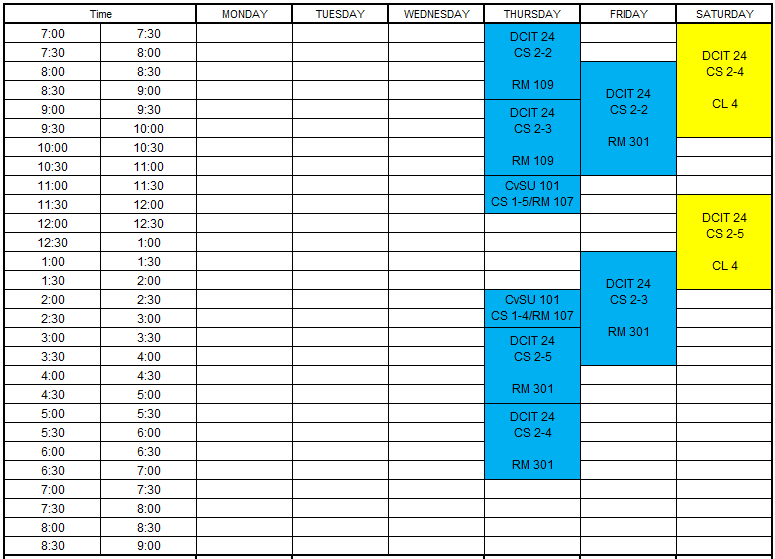
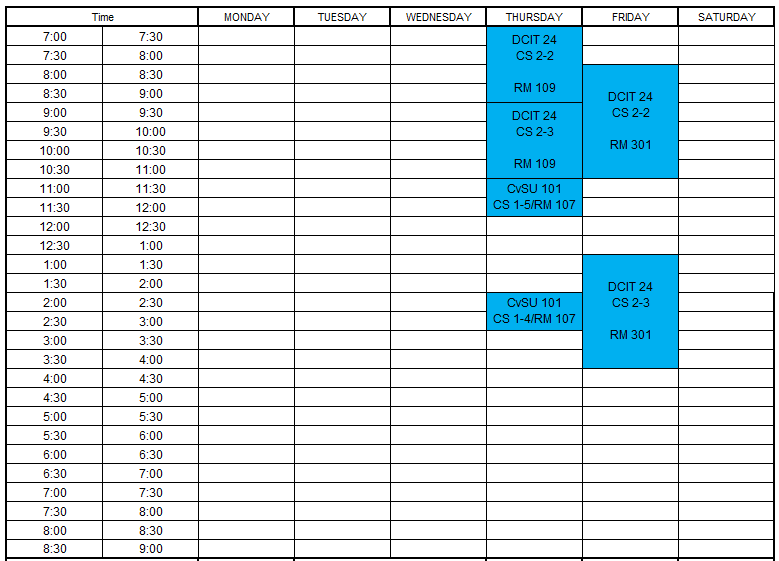
update: added data -  ma'am lamanilao

Changed region(s): [[0.0, 0.0, 1.0, 1.0], [0.7742, 0.1521, 0.8361, 0.2129], [0.7742, 0.2433, 0.8361, 0.2737]]

diff --git a/src/data.js b/src/data.js
@@ -9253,8 +9253,8 @@ export const people = [
     certificates: null,
     speaking_engagements: null,
     schedule: [
-      //No Record - 1st SEM  22-23
-      //No Record - 2nd SEM  22-23
+      //No Record - 1st Sem A.Y 22-23
+      //No Record - 2nd Sem A.Y 22-23
       { //1st 23-24
         semesterName: "1st Sem A.Y 23-24",
         details: {
@@ -13992,8 +13992,8 @@ export const people = [
     ],
     speaking_engagements: null,
     schedule: [
-      //No Record - 1ST SEM 22-23
-      //No Record - 2ND SEM 22-23
+      //No Record - 1st Sem A.Y 22-23
+      //No Record - 2nd Sem A.Y 22-23
       { //1st Sem A.Y 23-24
         semesterName: "1st Sem A.Y 23-24",
         details: {
@@ -14405,8 +14405,8 @@ export const people = [
     speaking_engagements: null,
 
     schedule: [
-      // No Record - Sem A.Y 22-23
-      // No Record - Sem A.Y 22-23
+      //No Record - 1st Sem A.Y 22-23
+      //No Record - 2nd Sem A.Y 22-23
       // Summer 1ST SEM 23-24
       { //2nd Sem A.Y 23-24
         semesterName: "2nd Sem A.Y 23-24",
@@ -15838,10 +15838,10 @@ export const people = [
     speaking_engagements: null,
 
     schedule: [
-      //No Record - 1ST SEM 22-23
-      //No Record - 2ND SEM 22-23
-      //No Record - 1ST SEM 23-24
-      //No Record - 2ND SEM 23-24
+      //No Record - 1st Sem A.Y 22-23
+      //No Record - 2nd Sem A.Y 22-23
+      //No Record - 1st Sem A.Y 23-24
+      //No Record - 2nd Sem A.Y 23-24
       { //1st Sem A.Y 24-25
         semesterName: "1st Sem A.Y 24-25",
         details: {
@@ -16037,8 +16037,8 @@ export const people = [
     speaking_engagements: null,
 
     schedule: [
-      //No Record - 1ST SEM 22-23
-      //No Record - 2ND SEM 22-23
+      //No Record - 1st Sem A.Y 22-23
+      //No Record - 2nd Sem A.Y 22-23
       { //1st Sem A.Y 23-24
         semesterName: "1st Sem A.Y 23-24",
         details: {
@@ -16681,8 +16681,8 @@ export const people = [
     }],
 
     schedule: [
-      //No Record - 1ST SEM 22-23
-      //No Record - 2ND SEM 22-23
+      //No Record - 1st Sem A.Y 22-23
+      //No Record - 2nd Sem A.Y 22-23
       {
         semesterName: "1st Sem A.Y 23-24",
         details: {
@@ -17366,7 +17366,6 @@ export const people = [
       url: "https://drive.google.com/file/d/1ncMrMIuFgzShTkYSZorV1glD9pTbGB_u/view?usp=drive_link"
     }],
     tor: [
-
       {
         name: "MASTER IN BUSINESS ADMINISTRATION",
         url: "https://drive.google.com/file/d/1kXL8FOh74fEL8gmATpXf_S151127YUoo/view?usp=drive_link"
@@ -17376,7 +17375,6 @@ export const people = [
 
     resume: "https://drive.google.com/file/d/1Se89lVfZKwK3ki47EE7ZUFN7RUDkaoVc/view?usp=drive_link",
     certificates: [
-
       {
         name: "Data Associate Capstone Course",
         url: "https://drive.google.com/file/d/1K0MwbrktWqWs5Dn-FrFltw8NGAq77U1R/view?usp=drive_link"
@@ -17406,8 +17404,21 @@ export const people = [
         name: "Resource Speaker/Trainor: Project 4 Kaagapay sa Kabuhayang tungo sa Kaunlaran",
         url: "https://drive.google.com/file/d/1cFBoVGxYRwbJHwSZJiBLxZvlgaqmzjX-/view?usp=drive_link"
       }
-
     ],
+    schedule: [
+      //No Record - 1st Sem A.Y 22-23
+      //No Record - 2nd Sem A.Y 22-23
+      //No Record - 1st Sem A.Y 23-24
+      //No Record - 2nd Sem A.Y 23-24
+      {//1st Sem A.Y 24-25
+        semesterName: "1st Sem A.Y 24-25",
+        image: "/faculty-schedule/1st-sem/1-lamanilao-sched.png",
+      },
+      {//2nd Sem A.Y 24-25
+        semesterName: "2nd Sem A.Y 24-25",
+        image: "/faculty-schedule/2nd-sem/2-lamanilao-sched.png",
+      },
+    ],    
     membership: [
       {
         name: "Human Resource Educators Association of the Philippines, Inc.",
